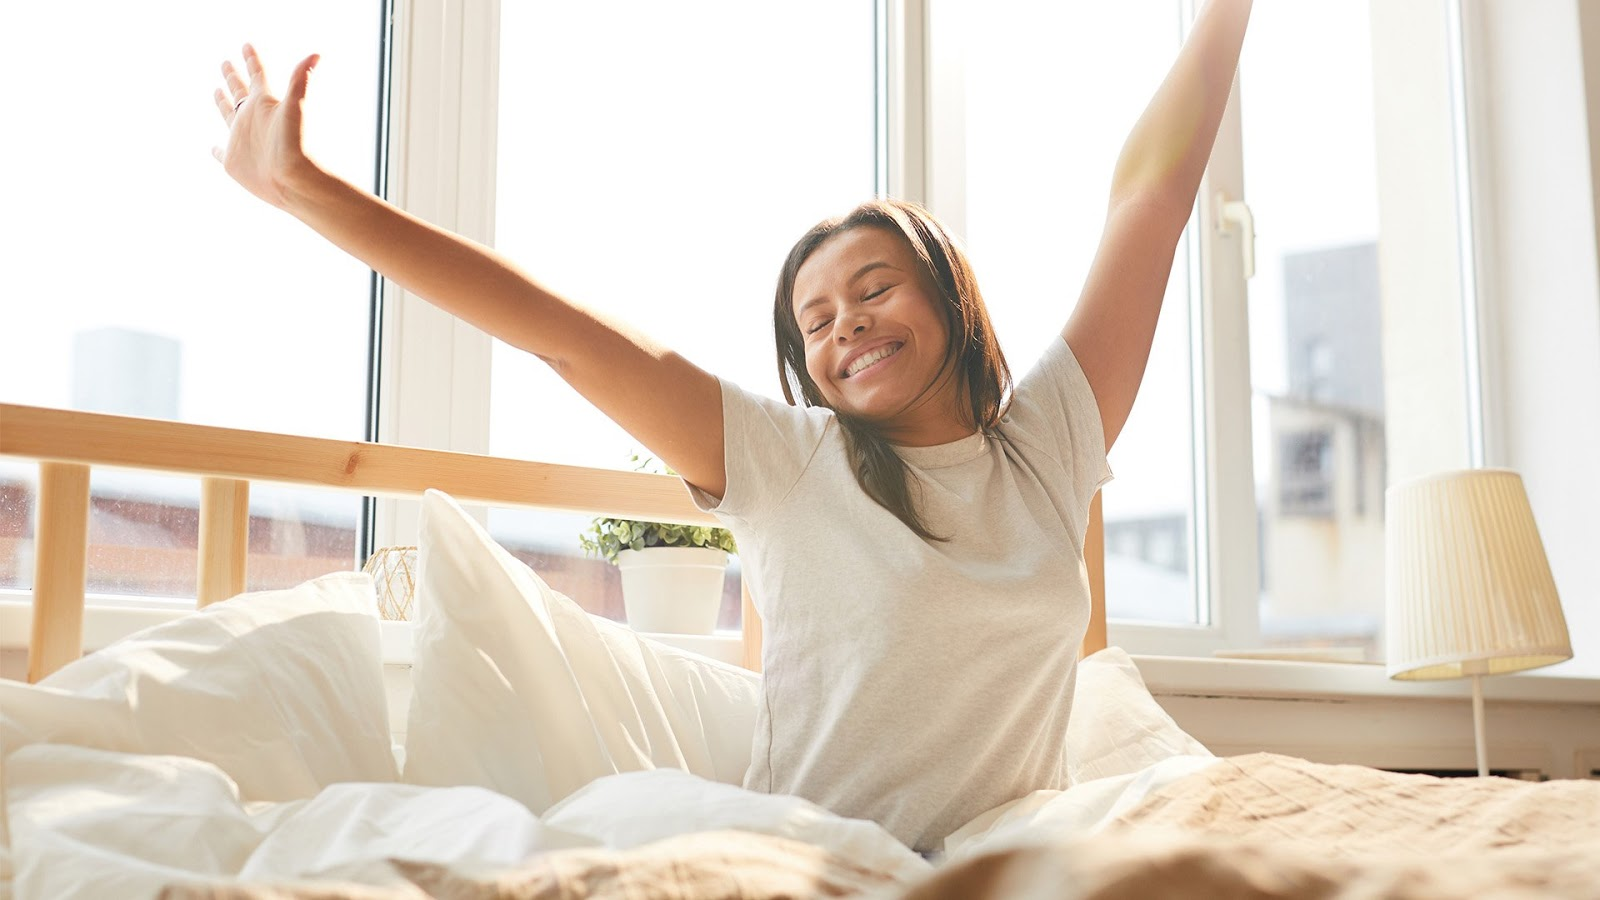
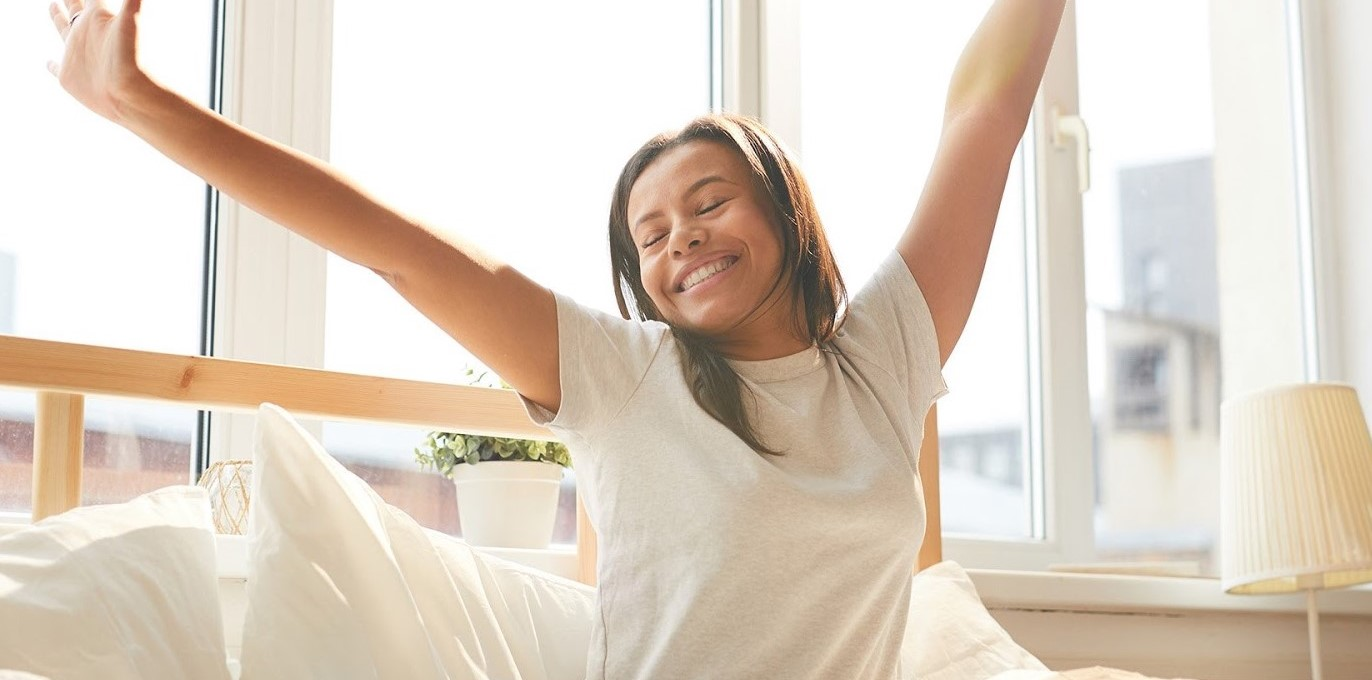
remove values and animate cards

diff --git a/index.html b/index.html
@@ -52,44 +52,92 @@
             </nav>
             <div class="hero_image">
                 <img src="assets/images/Holsana-good-sleep.jpg" alt="Girl waking up" class="main-picture" height="300">
+
                 <div class="image-text tagline">
                     <p class="ex1">Sleep better.</p><br/><p class="ex2">Feel better.</p><br/><p class="ex1">Live better.</p>
                 </div>
             </div>
-            <div class="card-deck hideme" id="features">
+
+            <div class="container-cards">
                 <!-- card 1 -->
                 <div class="card">
-                    <img class="card-img-top" src="assets/images/for-you.png" alt="Card image cap">
-                    <div class="card-body">
-                        <h5 class="card-title">TAILORED TO YOU</h5>
-                        <p class="card-text">This is a longer card with supporting text below as a natural lead-in to additional content. This content is a little bit longer.</p>
+                    <div class="image-circle">
+                        <img src="assets/images/for-you.png">
+                    </div>
+                    <div class="content">
+                        <h5>TAILORED TO YOU</h5>
+                        <p>Tailored to your specific goals and needs.</p>
                     </div>
                 </div>
                 <!-- card 2 -->
                 <div class="card">
-                    <img class="card-img-top" src="assets/images/plant circle.png" alt="Card image cap">
-                    <div class="card-body">
-                        <h5 class="card-title">POWERED BY PLANTS</h5>
-                        <p class="card-text">This is a longer card with supporting text below as a natural lead-in to additional content. This content is a little bit longer.</p>
+                    <div class="image-circle">
+                        <img src="assets/images/plant circle.png">
+                    </div>
+                    <div class="content">
+                        <h5>POWERED BY PLANTS</h5>
+                        <p>100% plant-based, natural, and vegan.</p>
                     </div>
                 </div>
+                
                 <!-- card 3 -->
                 <div class="card">
-                    <img class="card-img-top" src="assets/images/science.png" alt="Card image cap">
-                    <div class="card-body">
-                        <h5 class="card-title">BACKED BY SCIENCE</h5>
-                        <p class="card-text">This is a longer card with supporting text below as a natural lead-in to additional content. This content is a little bit longer.</p>
+                    <div class="image-circle">
+                        <img src="assets/images/science.png">
+                    </div>
+                    <div class="content">
+                        <h5>BACKED BY SCIENCE</h5>
+                        <p>Supported by modern biochemistry research.</p>
                     </div>
                 </div>
                 <!-- card 4 -->
                 <div class="card">
-                    <img class="card-img-top" src="assets/images/wisdom.png" alt="Card image cap">
-                    <div class="card-body">
-                        <h5 class="card-title">GENERATIONS OF WISDOM</h5>
-                        <p class="card-text">This is a longer card with supporting text below as a natural lead-in to additional content. This content is a little bit longer.</p>
+                    <div class="image-circle">
+                        <img src="assets/images/wisdom.png">
+                    </div>
+                    <div class="content">
+                        <h5>GENERATIONS OF WISDOM</h5>
+                        <p>Used and loved in Traditional Eastern Medicines for hundreds of years.</p>
                     </div>
                 </div>
             </div>
+
+
+           <!-- original cards
+            <div class="card-deck hideme" id="features">
+                card 1 
+                <div class="card">
+                    <img class="card-img-top" src="assets/images/for-you.png" alt="Card image cap">
+                    <div class="card-body">
+                        <h5 class="card-title">TAILORED TO YOU</h5>
+                        <p class="card-text">Tailored to your specific goals and needs.</p>
+                    </div>
+                </div>
+                 card 2
+                <div class="card">
+                    <img class="card-img-top" src="assets/images/plant circle.png" alt="Card image cap">
+                    <div class="card-body">
+                        <h5 class="card-title">POWERED BY PLANTS</h5>
+                        <p class="card-text">100% plant-based, natural, and vegan.</p>
+                    </div>
+                </div>
+                 card 3 
+                <div class="card">
+                    <img class="card-img-top" src="assets/images/science.png" alt="Card image cap">
+                    <div class="card-body">
+                        <h5 class="card-title">BACKED BY SCIENCE</h5>
+                        <p class="card-text">Supported by modern biochemistry research.</p>
+                    </div>
+                </div>
+                card 4 
+                <div class="card">
+                    <img class="card-img-top" src="assets/images/wisdom.png" alt="Card image cap">
+                    <div class="card-body">
+                        <h5 class="card-title">GENERATIONS OF WISDOM</h5>
+                        <p class="card-text">Used and loved in Traditional Eastern Medicines for hundreds of years.</p>
+                    </div>
+                </div>
+            </div> -->
 
             <!-- carousel -->
             <div id="carouselExampleControls" class="carousel slide hideme" data-ride="carousel">
@@ -113,13 +161,14 @@
                         </div>
                     </div>
                     <div class="carousel-item">
-                        <img class="d-block bottle" src="assets/images/values.jpg" alt="Values">
+                        <img class="d-block bottle" src="assets\images\yoga.jpg" alt="Yoga picture">
                         <div class="carousel-caption d-none d-md-block">
-                            <h5>Values</h5>
-                            <p>We are continuously improving: we are intellectually curious and always learning. We are consistently
-                                looking for ways to be more productive in our work. Most importantly, we are improving people’s health
-                                outcomes and quality of life through our research and products. We will never stop improving - we are
-                                working to change the world.</p>
+                            <h5>We all deserve to wake up feeling refreshed and energized</h5>
+                            <p>We all know sleep is important. And of course, we all want that awesome feeling of waking up after a
+                                great night’s sleep. But sleep extends far beyond these benefits.
+                                Research continues to emerge supporting just how important sleep is for keeping our bodies and minds
+                                healthy. Want a stronger immune system? Sleep. Lose weight? Sleep can help with that. Better memory,
+                                focus, and mental cognition? Well, you get the idea.</p>
                         </div>
                     </div>
                 </div>

diff --git a/assets/css/index.css b/assets/css/index.css
@@ -161,12 +161,73 @@ li>a:only-child:after {
     color:#fff;
 }
 
-.card-deck {
+/* TEST CARDS */
+.container-cards {
+    display: flex;
+    justify-content: center;
+    align-items: center;
+    position: relative;
+    width: 100%;
+    
+}
+
+.card {
+    position: relative;
+    background: #121528;
+    max-width: 300px;
+    height: 300px;
+    margin: 30px 10px;
+    padding: 40px 15px;
+    display: flex;
+    flex-direction: column;
+    transition: 0.3s ease-in-out;
+}
+
+.card:hover {
+    height: 300px;
+}
+
+.image-circle {
+    position: relative;
+    width: 150px;
+    height: 150px;
+    top: -60px;
+    left: 50px;
+    z-index: 1;
+}
+
+.image-circle img{
+    max-width: 100%;
+    border-radius: 4px;
+    padding-top: 30px;
+}
+
+.content {
+    position: relative;
+    margin-top: -150px;
+    padding: 15px 15px;
+    color:white;
+    text-align: center;
+    visibility: hidden;
+    opacity: 0;
+    transition: 0.3s ease-in-out;
+}
+
+.card:hover .content{
+    visibility: visible;
+    opacity: 1;
+    margin-top: -40px;
+    transition-delay: 0.3s;
+}
+
+/* original card */
+/* .card-deck {
     width: 1000px;
     margin: 0 auto; 
+    margin-top: 20px;
     float: none 
 
-}
+} */
 
 .topnav-right {
     float: right;
@@ -186,14 +247,15 @@ nav {
     padding: 0;
 }
 
-.card {
+/* .card {
     background-color: #121528;
     color: white;
     padding-top: 75px;
     padding-bottom: 75px;
-}
+} */
 
-.card-body {
+
+/* .card-body {
     text-align: center;
 }
 
@@ -204,7 +266,7 @@ nav {
 .card .card-body .card-title {
     min-height: 60px !important;
     max-height: 100%;
-}
+} */
 .center {
     display: block;
     margin-left: 5rem;
@@ -213,9 +275,20 @@ nav {
 }
 
 .main-picture {
+    
     width: 100%;
     height: auto;
-    margin-bottom: 20px;
+    margin-bottom: 0px;
+    position: relative;
+    top: 10px;
+    left: 10px;
+    z-index: 0;
+}
+.blue-wave{
+    position:absolute;
+    bottom: -10px;
+    left: 0;
+    z-index: 2;
 }
 
 
